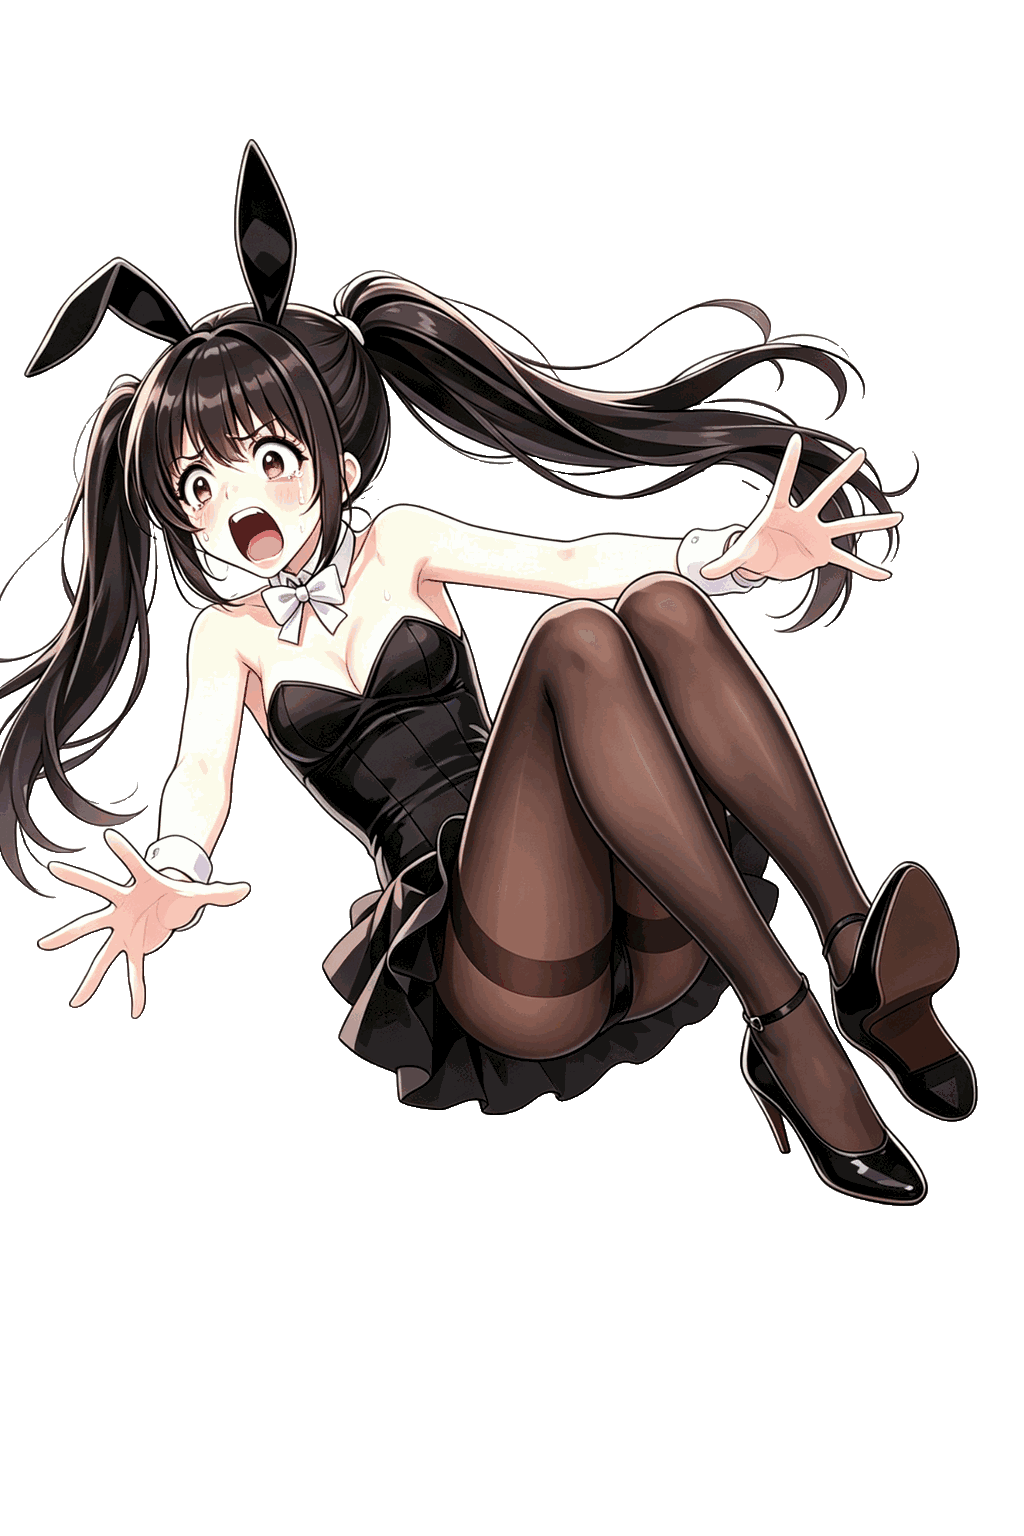
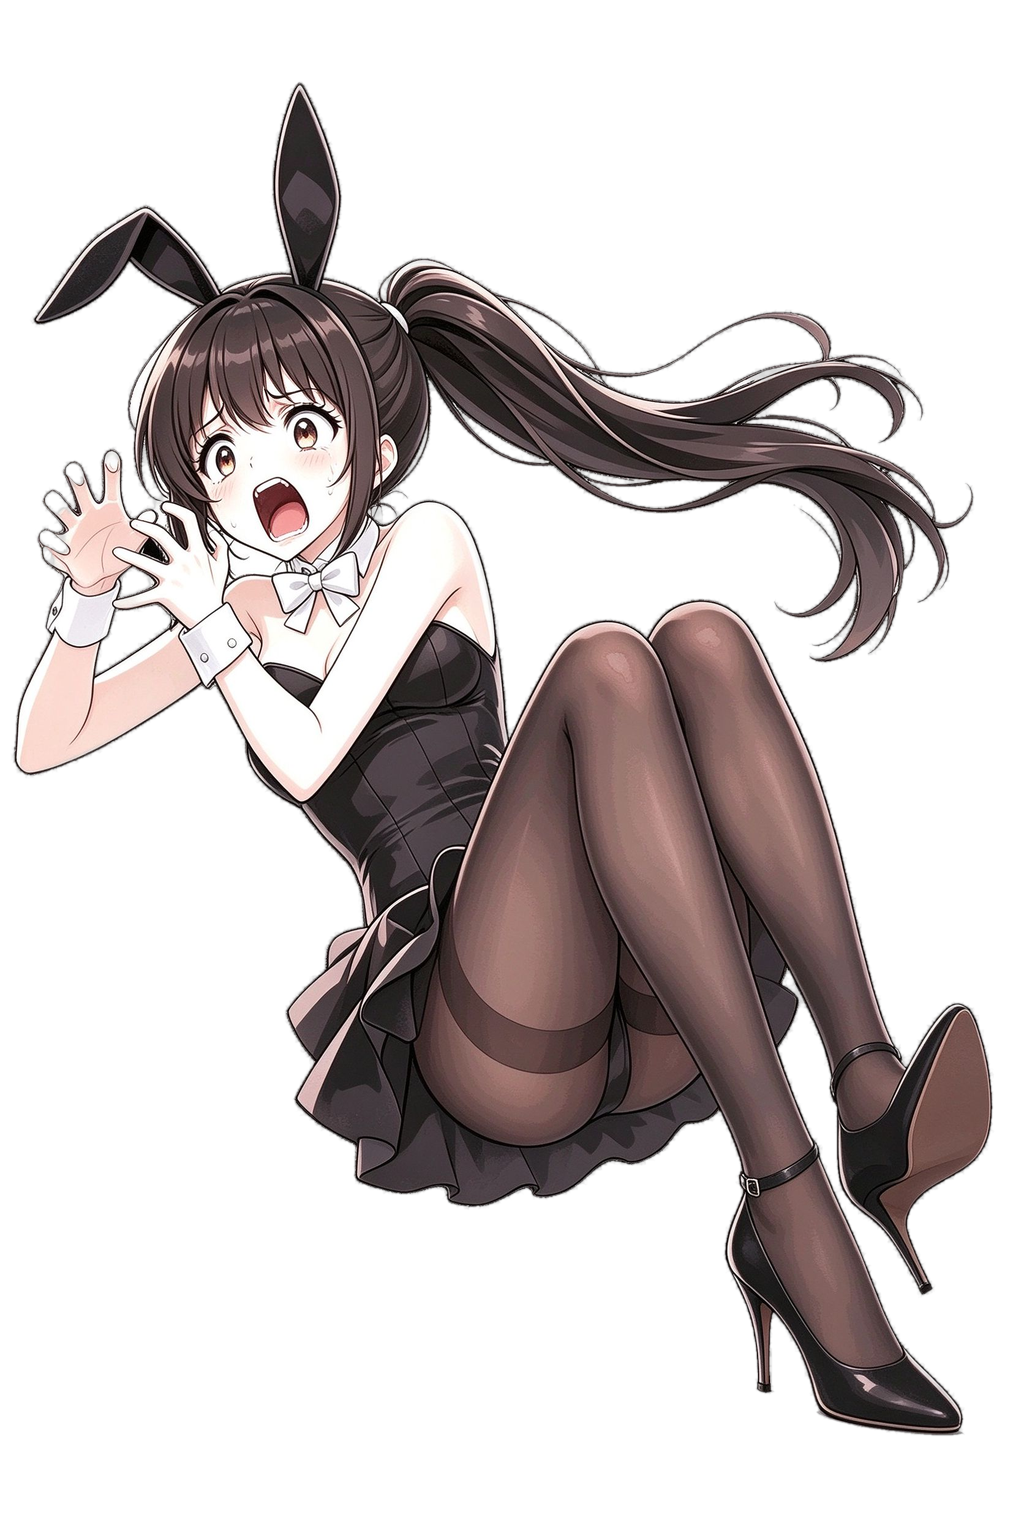
fix(hud)+assets: v6.0.13 rabit悬空帧替换(手部完整+鞋跟透视修复) + 恢复0.18s快速来回 + bump 6.0.13

diff --git a/HUD/sources/HUDRootViewController.mm b/HUD/sources/HUDRootViewController.mm
@@ -309,7 +309,7 @@ extern "C" const char *g_hud_char;
             _girlView.image = _liftFrames.firstObject;
             _girlView.transform = CGAffineTransformIdentity;
             [self _setFrameForImage:_liftFrames.firstObject];
-            _liftTimer = [NSTimer scheduledTimerWithTimeInterval:0.55 target:self selector:@selector(_liftTick) userInfo:nil repeats:YES];
+            _liftTimer = [NSTimer scheduledTimerWithTimeInterval:0.18 target:self selector:@selector(_liftTick) userInfo:nil repeats:YES];
         } else if (_girlView.image != _idleFrames.firstObject && _idleFrames.firstObject) {
             // 无悬空帧：从吸附/扒墙状态开始拖动，先恢复待机图
             _girlView.image = _idleFrames.firstObject;
